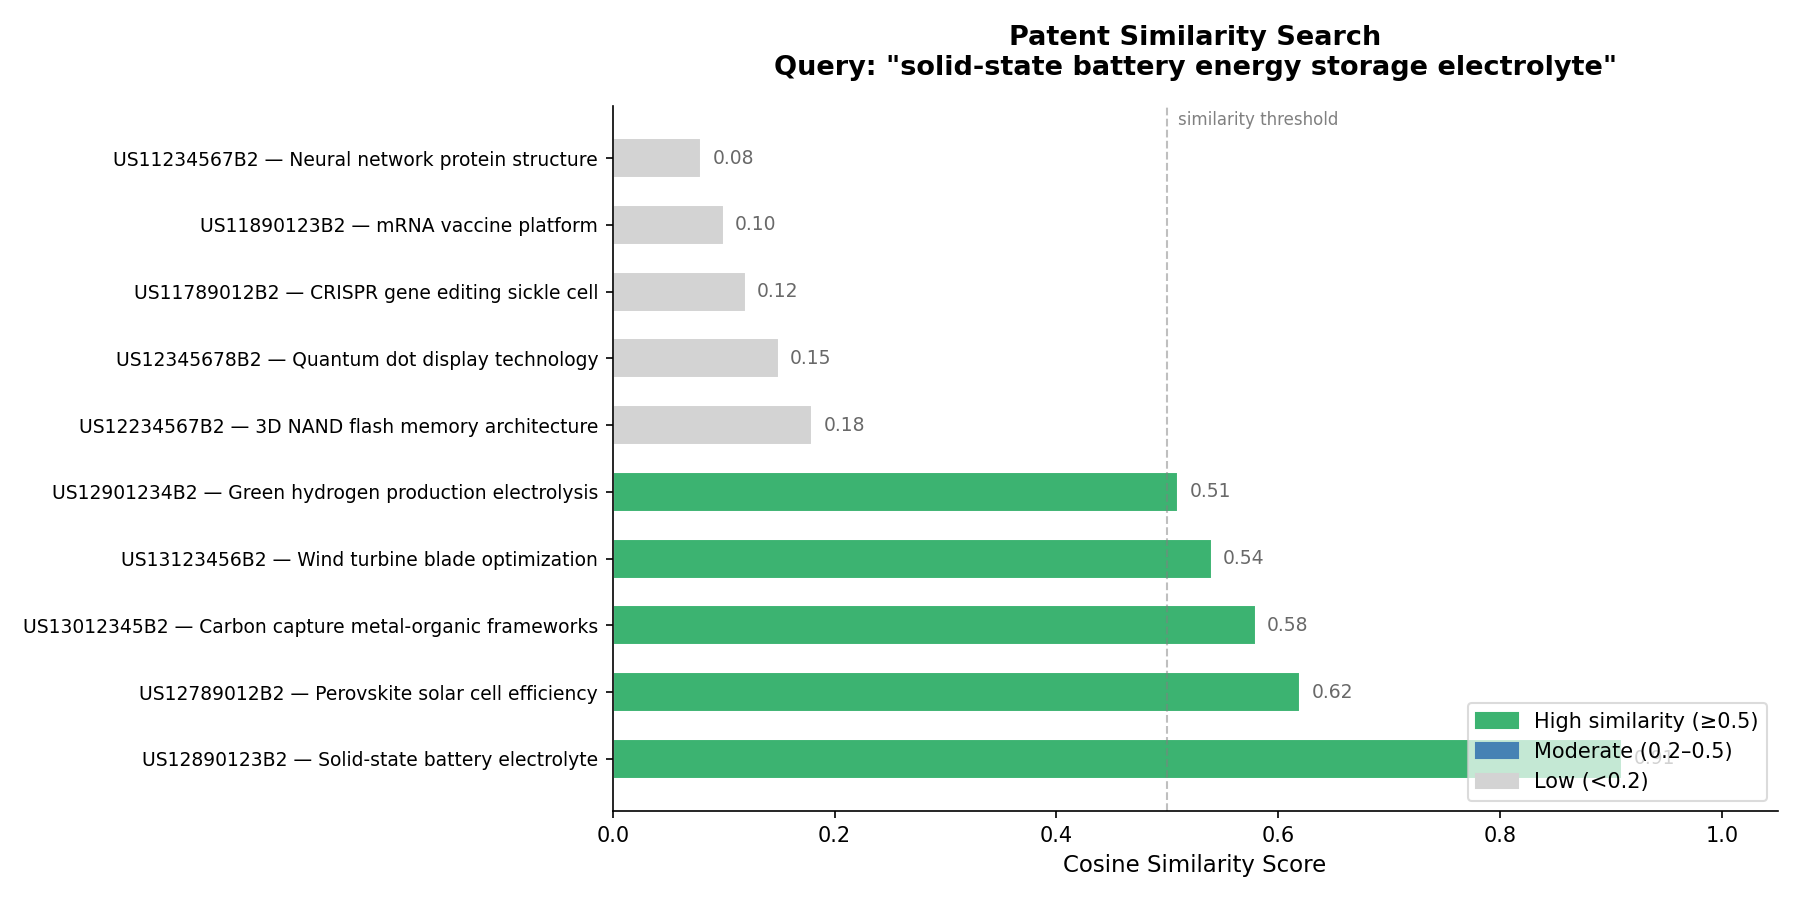
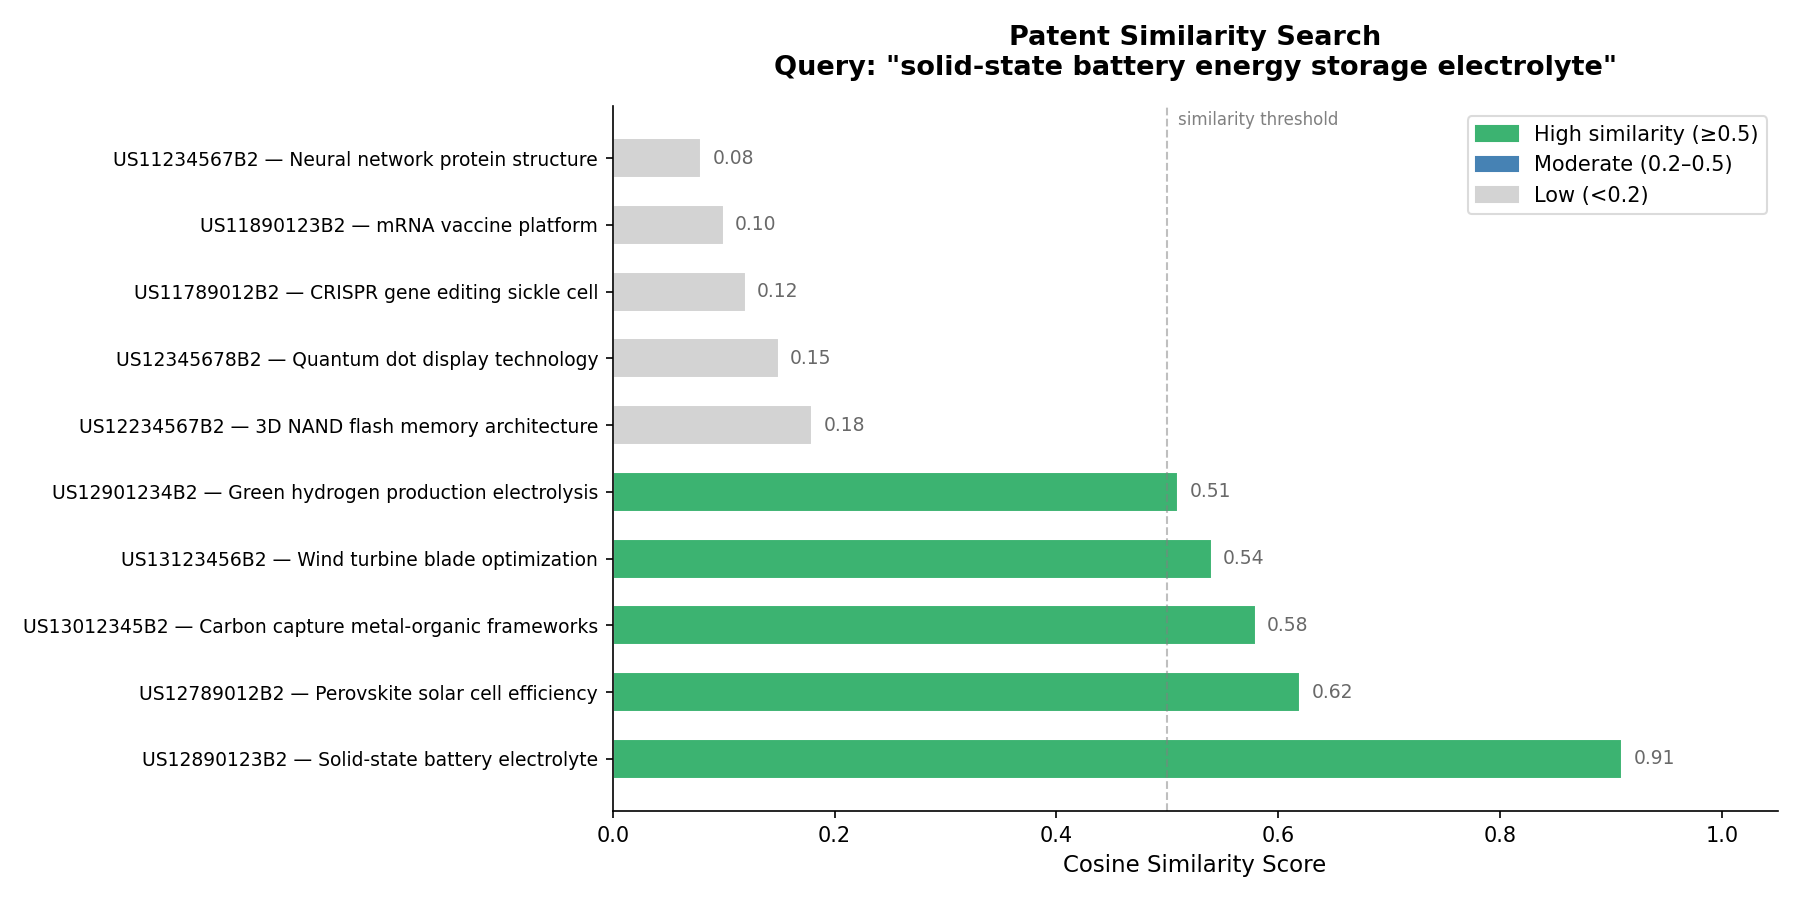
Add 30s countdown timer, date range option, fix similarity chart legend, update README

Changed region(s): [[0.8089, 0.7778, 0.9956, 0.9022], [0.8089, 0.1244, 0.9956, 0.2489]]

diff --git a/scrape_serpapi.py b/scrape_serpapi.py
@@ -14,6 +14,8 @@ import sys
 import os
 import time
 import json
+import threading
+import sys as _sys
 from concurrent.futures import ThreadPoolExecutor, as_completed
 
 # Python version check
@@ -312,9 +314,37 @@ def assignee_review(granted, all_patents):
     for i, a in enumerate(unique_assignees, 1):
         print(f"  {i}. {a}")
 
-    raw = input("\nExclude numbers (or Enter to keep all): ").strip()
+    # Countdown timer — auto-proceeds with all assignees after 30s if unattended
+    TIMEOUT = 30
+    user_input = []
+    input_event = threading.Event()
+
+    def get_input():
+        try:
+            val = input("\nExclude numbers (or Enter to keep all): ").strip()
+            user_input.append(val)
+        except Exception:
+            user_input.append("")
+        input_event.set()
+
+    input_thread = threading.Thread(target=get_input, daemon=True)
+    input_thread.start()
+
+    for remaining in range(TIMEOUT, 0, -1):
+        if input_event.is_set():
+            break
+        print(f"\r  Auto-proceeding with all assignees in {remaining}s... (type to cancel)  ", end="", flush=True)
+        time.sleep(1)
+
+    if not input_event.is_set():
+        print(f"\r  No response — proceeding with all assignees.                              ")
+        raw = ""
+    else:
+        print()
+        raw = user_input[0] if user_input else ""
+
     excluded = set()
-    excluded_patents = {}  # track patents per excluded assignee
+    excluded_patents = {}
 
     if raw:
         try:
@@ -323,7 +353,6 @@ def assignee_review(granted, all_patents):
                 if 0 <= idx < len(unique_assignees):
                     name = unique_assignees[idx]
                     excluded.add(name)
-                    # Collect patents for this excluded assignee
                     excluded_patents[name] = [
                         p for p in all_pats if p.get("Assignee", "") == name
                     ]

diff --git a/README.md b/README.md
@@ -30,7 +30,7 @@ The output is designed for immediate use in Excel, data science workflows, or st
 ## Key Features
 
 - Search any assignee across global patent systems (US, WO, EP, JP, CN, etc.)
-- Filter by publication date (from a specified start date through present)
+- Filter by publication date (from a specified start date through present, or a specific date range)
 - Dual dataset output:
   - **Granted patents only**
   - **All activity (grants + applications)**
@@ -120,7 +120,7 @@ You will be prompted for:
 - **Assignee name** — e.g. `Thomas Jefferson University`
 - **Date filter** — choose between a start date through present (e.g. `20250101`) or a specific date range (e.g. `20230101` to `20251231`)
 - **Parallel fetch? (y/n)** — enter `y` for faster inventor/co-assignee scraping using parallel requests, or `n` for sequential (safer, less likely to be rate-limited). If `y`, you will also be asked how many parallel workers to use (recommended: 3-10, default 5)
-- **Assignee review** — after fetching, the script displays all unique assignee names returned by SerpAPI and asks you to exclude any that do not match your institution (useful for ambiguous names like "Philadelphia University" which may return results from other Philadelphia-based institutions)
+- **Assignee review** — after fetching, the script displays all unique assignee names returned by SerpAPI and asks you to exclude any that do not match your institution. A 30-second countdown timer auto-proceeds with all assignees if left unattended (useful for scheduled or unattended runs)
 
 ---
 
@@ -148,8 +148,6 @@ See [EXAMPLES.md](EXAMPLES.md) for practical walkthroughs including:
 - Monitoring a portfolio over time with incremental runs
 - Technology clustering with TF-IDF + KMeans (MIT portfolio)
 - Semantic patent similarity search using embeddings
-- Technology clustering with TF-IDF + KMeans (MIT portfolio)
-- Semantic patent similarity search using embeddings
 
 ---
 
@@ -160,12 +158,7 @@ See [EXAMPLES.md](EXAMPLES.md) for practical walkthroughs including:
 - **Data currency** — SerpAPI reflects Google Patents data which may lag official patent office records by days to weeks.
 - **Rate limiting** — parallel fetching may trigger rate limiting from Google Patents. Reduce worker count or switch to sequential mode if you encounter errors.
 
-## Known Limitations
-
-- **Non-US jurisdiction data gaps** — Google Patents does not always index grant dates, priority dates, or co-assignee information for non-US patents (e.g. NZ, AU, some EP filings). These fields may appear as N/A even when the patent is granted.
-- **SerpAPI broad matching** — the assignee filter may return patents from similarly named institutions. The interactive assignee review step mitigates this but manual verification is recommended for ambiguous names.
-- **Data currency** — SerpAPI reflects Google Patents data which may lag official patent office records by days to weeks.
-- **Rate limiting** — parallel fetching may trigger rate limiting from Google Patents. Reduce worker count or switch to sequential mode if you encounter errors.
+---
 
 ## License
 

diff --git a/EXAMPLES.md b/EXAMPLES.md
@@ -295,6 +295,13 @@ ax.barh(top["Title"].str[:50], top["Similarity"], color=colors, edgecolor="white
 ax.set_xlabel("Cosine Similarity Score")
 ax.set_title(f'Patent Similarity Search\nQuery: "{query}"', fontweight="bold")
 ax.axvline(x=0.5, color="gray", linestyle="--", alpha=0.5)
+
+import matplotlib.patches as mpatches
+high = mpatches.Patch(color="mediumseagreen", label="High similarity (>=0.5)")
+med  = mpatches.Patch(color="steelblue",      label="Moderate (0.2-0.5)")
+low  = mpatches.Patch(color="lightgray",      label="Low (<0.2)")
+ax.legend(handles=[high, med, low], loc="upper right", framealpha=0.7)
+
 plt.tight_layout()
 plt.savefig("patent_similarity.png", dpi=150)
 plt.show()